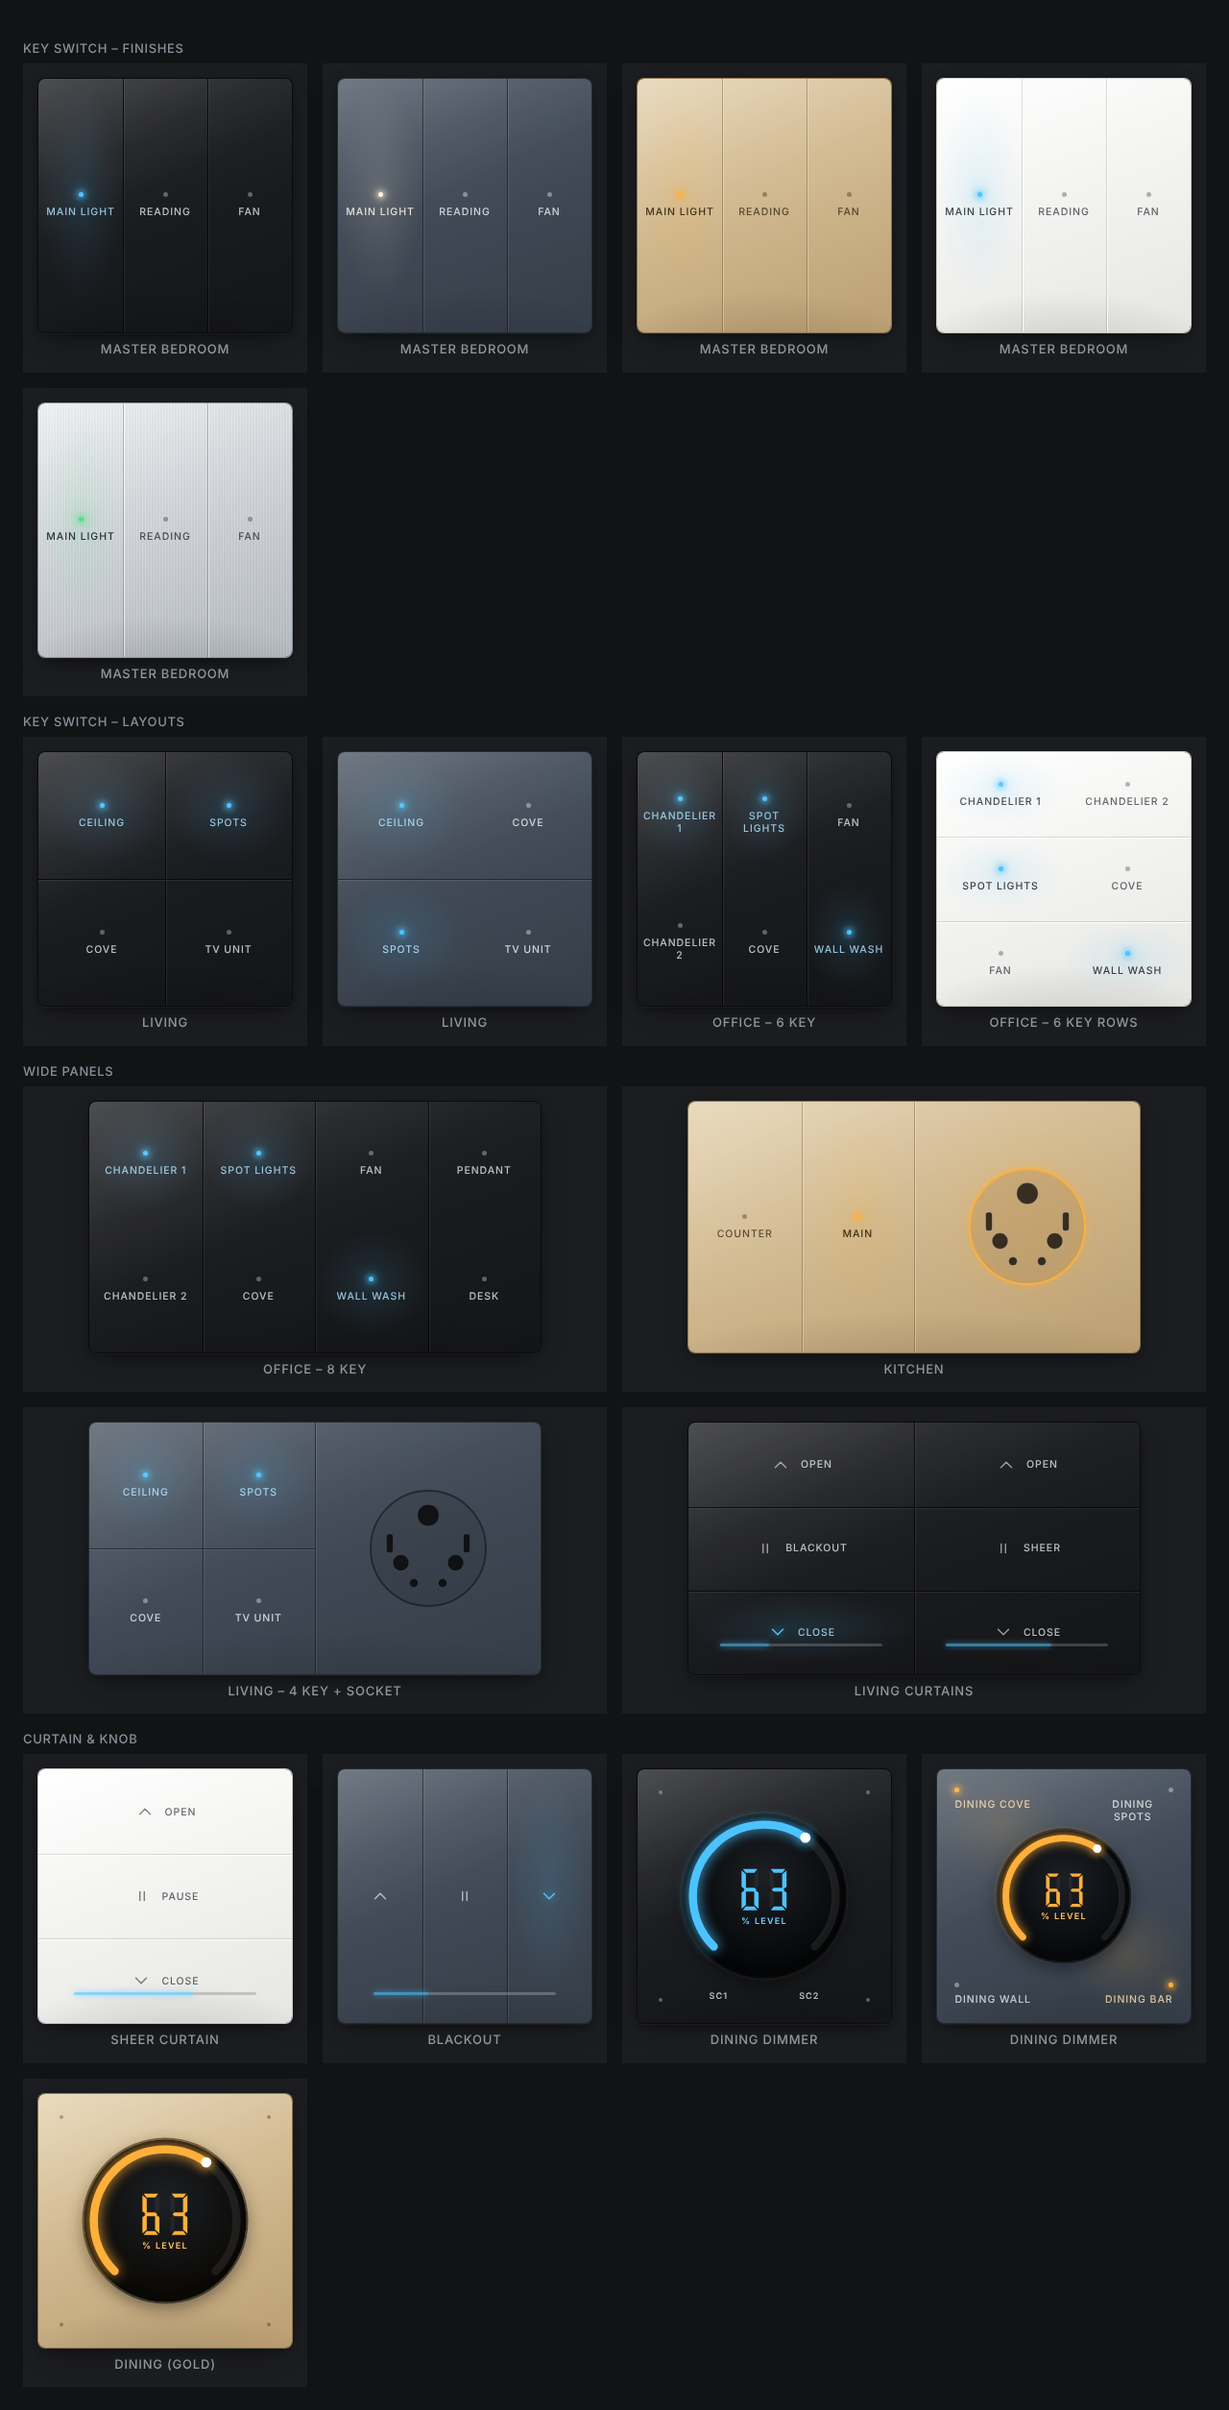
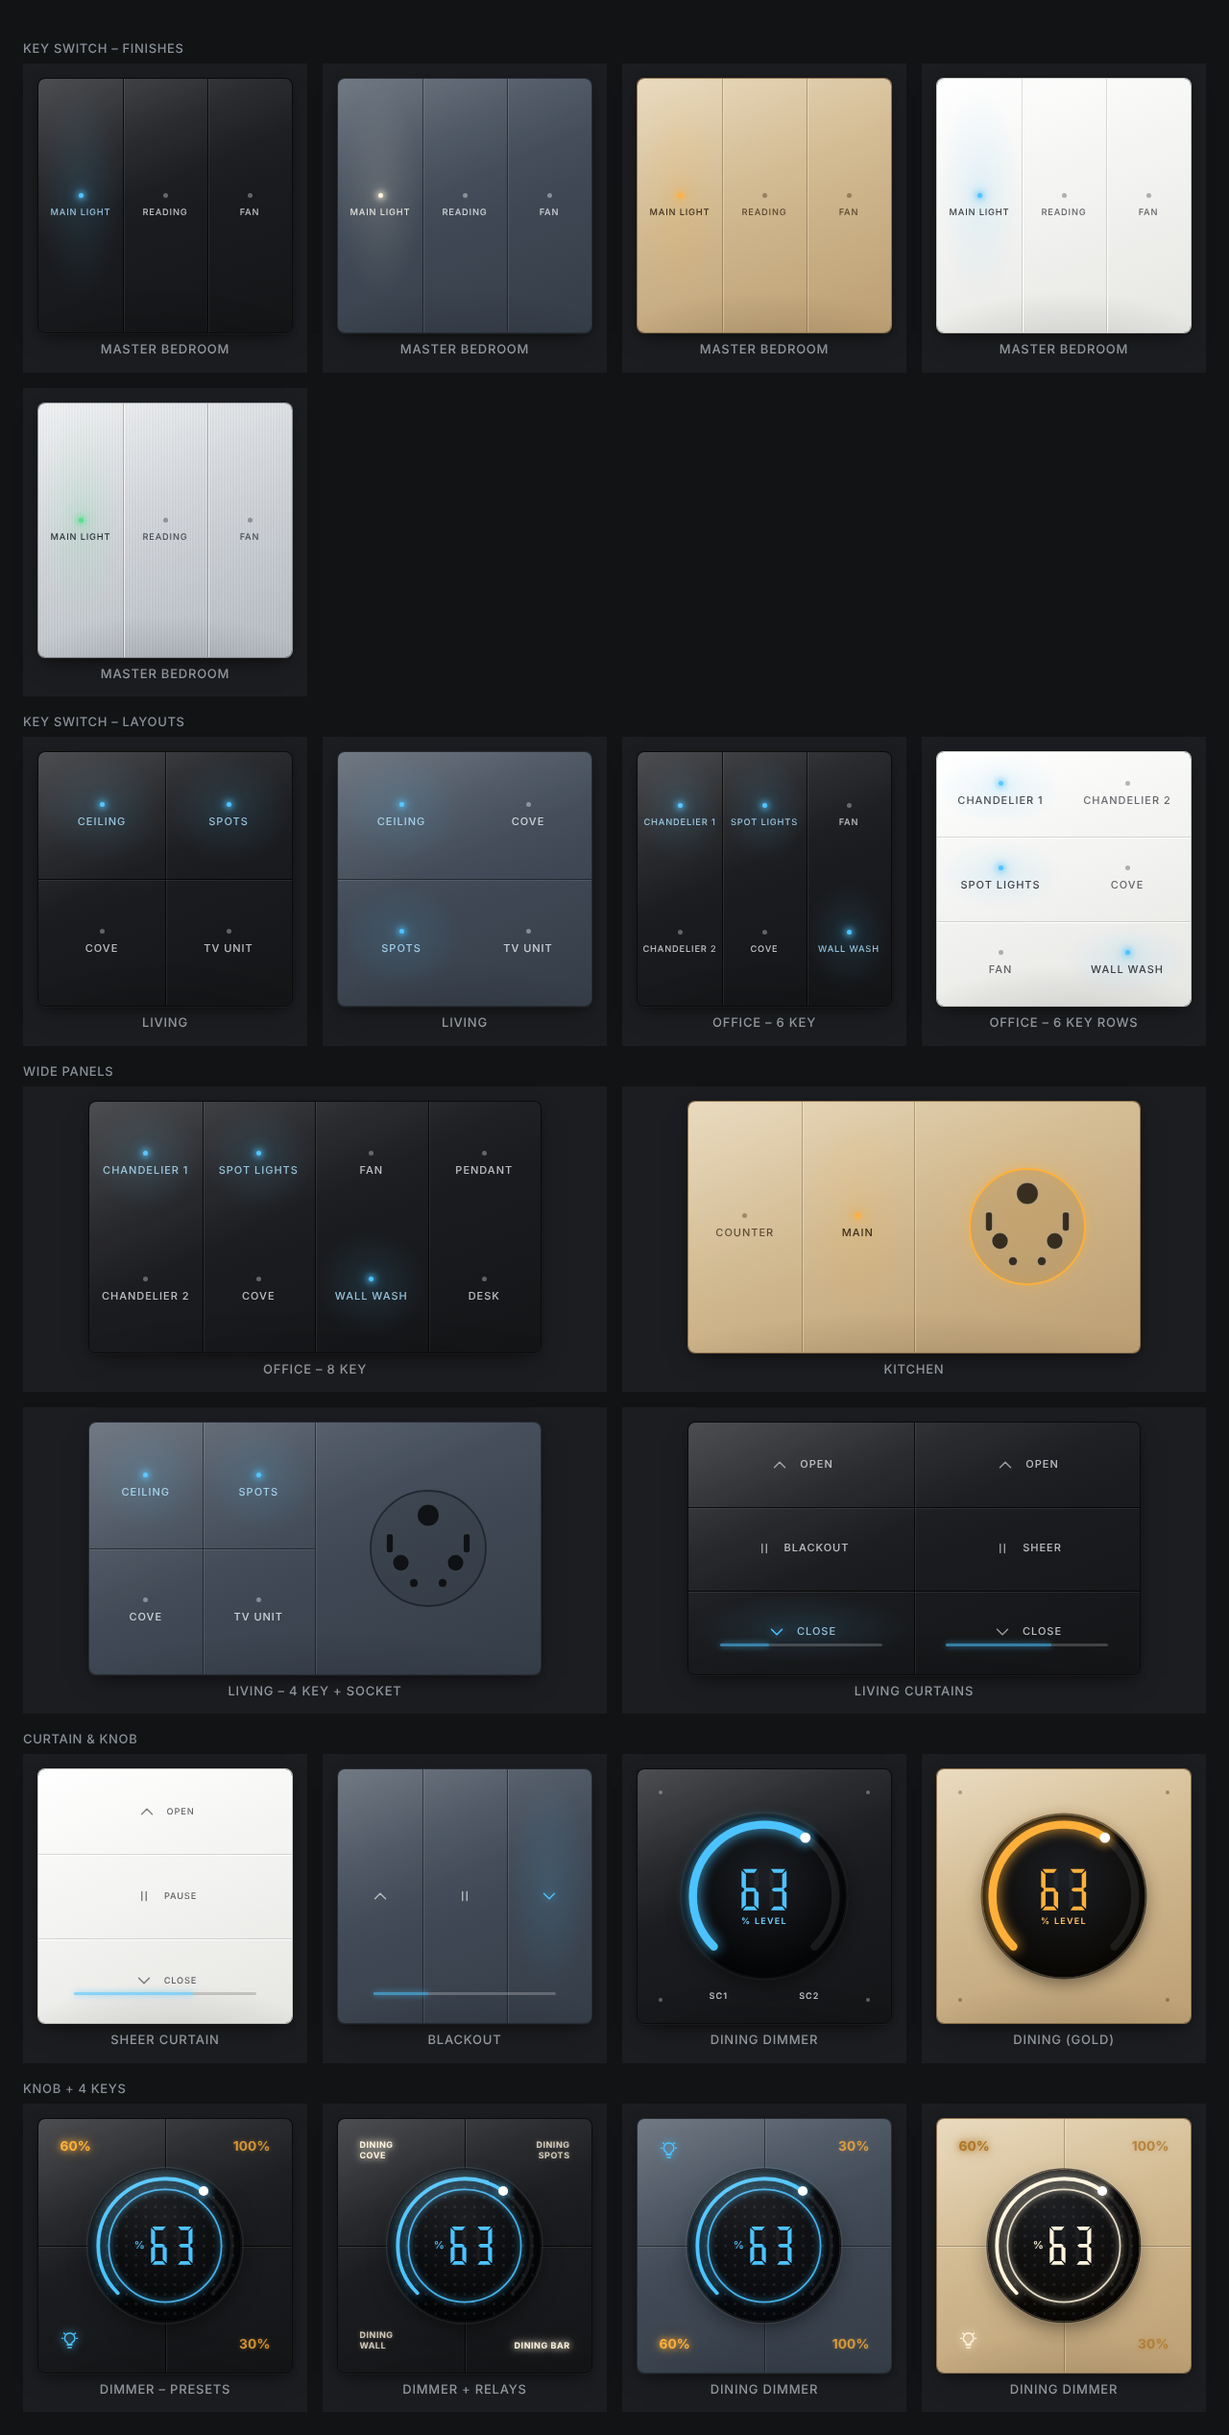
Knob + 4 keys card like the real dimmer panel: dotted glass display, on/off and level keys, or relays and scenes

diff --git a/custom_components/hawaii_local/frontend/hawaii-local-cards.js b/custom_components/hawaii_local/frontend/hawaii-local-cards.js
@@ -15,7 +15,7 @@
  * Common options: entity (any one entity of the switch), entities (pick keys
  * yourself), exclude, names, finish, indicator, show_names, name.
  */
-const VERSION = "0.3.1";
+const VERSION = "0.3.2";
 
 /* ------------------------------------------------------------------ looks */
 
@@ -228,6 +228,7 @@ const ICONS = {
   close: '<path d="M6 9l6 6 6-6" />',
   pause: '<path d="M9.5 7v10M14.5 7v10" />',
   power: '<path d="M12 4v7" /><path d="M7.2 7.2a7 7 0 1 0 9.6 0" />',
+  bulb: '<path d="M9.2 17.5h5.6M10 20.5h4" /><path d="M12 3.5a5.8 5.8 0 0 0-3.4 10.5c.6.5 1 1.1 1 1.9v.6h4.8V16c0-.8.4-1.4 1-1.9A5.8 5.8 0 0 0 12 3.5z" /><path d="M2.8 9.5h1.4M19.8 9.5h1.4M5.2 3.4l1 1M18.8 3.4l-1 1" />',
 };
 const icon = (name) =>
   `<svg class="ico" viewBox="0 0 24 24" fill="none" stroke="currentColor" stroke-width="1.6" stroke-linecap="round" stroke-linejoin="round">${ICONS[name]}</svg>`;
@@ -296,6 +297,28 @@ ha-card.bare { background:none; box-shadow:none; border:none; padding:6px 0; }
 .knob .unit { font: 600 9px/1 var(--ha-font-family-body, system-ui); letter-spacing:.14em; color: color-mix(in srgb, var(--hl-ind) 80%, #fff); text-transform:uppercase; }
 .knob.off .unit { color: rgba(255,255,255,.35); }
 .knob .center { position:absolute; inset:30%; border-radius:50%; cursor:pointer; }
+.knob.glass { background:
+    radial-gradient(circle, rgba(255,255,255,.085) 0 1.1px, transparent 1.7px) 50% 50% / 6.4% 6.4%,
+    radial-gradient(circle at 50% 32%, #16181c 0%, var(--hl-lcd) 72%);
+  box-shadow: 0 0 0 1.5px rgba(0,0,0,.65), 0 0 0 3px rgba(255,255,255,.07), inset 0 4px 16px rgba(0,0,0,.9), 0 10px 26px -6px rgba(0,0,0,.6); }
+.knob.glass::after { content:""; position:absolute; inset:0; border-radius:50%; pointer-events:none;
+  background: linear-gradient(160deg, rgba(255,255,255,.18) 0%, rgba(255,255,255,.03) 30%, transparent 48%); }
+.knob.glass .track { stroke-width:2.4; stroke:rgba(255,255,255,.07); }
+.knob.glass .arc { stroke-width:2.4; }
+.knob.glass .halo { fill:none; stroke:var(--hl-ind); stroke-width:1.1; opacity:.9; filter: drop-shadow(0 0 2px var(--hl-ind)); }
+.knob.glass.off .halo { opacity:.25; filter:none; }
+.knob.glass .readout { flex-direction:row; gap:4%; inset:26%; }
+.knob.glass .seg { width:66%; }
+.knob.glass .pct { font: 600 11px/1 var(--ha-font-family-body, system-ui); color:var(--hl-ind); align-self:center; opacity:.95; }
+.knob.glass.off .pct { color:rgba(255,255,255,.35); }
+.ck { position:absolute; width:50%; height:50%; box-sizing:border-box; padding:8.5%; display:flex; flex-direction:row; z-index:3; }
+.ck .cklabel { font: 700 clamp(10px, 5.2cqw, 17px)/1 var(--ha-font-family-body, system-ui); letter-spacing:.01em; white-space:nowrap;
+  color: color-mix(in srgb, var(--hl-label) 78%, transparent); text-shadow: 0 0 4px color-mix(in srgb, var(--hl-label) 35%, transparent); transition: all .25s ease; }
+.ck .cklabel.name { font-size: clamp(8px, 3.4cqw, 12px); letter-spacing:.06em; text-transform:uppercase; white-space:normal; max-width:70%; line-height:1.2; }
+.ck.on .cklabel { color: var(--hl-label); text-shadow: 0 0 6px var(--hl-label), 0 0 14px color-mix(in srgb, var(--hl-label) 60%, transparent); }
+.ck .ico { width:clamp(18px, 8cqw, 28px); height:auto; color: color-mix(in srgb, var(--hl-ind) 70%, transparent); }
+.ck.on .ico { color: var(--hl-ind); filter: drop-shadow(0 0 5px var(--hl-ind)); }
+.ck.on { background:none; }
 .scenes { position:absolute; left:0; right:0; bottom:7%; display:flex; justify-content:center; gap:22%; z-index:5; }
 .scene { font: 600 9px/1 var(--ha-font-family-body, system-ui); letter-spacing:.12em; color:var(--hl-text); padding:6px 8px; cursor:pointer; border-radius:6px; text-transform:uppercase; }
 .scene.on { color:var(--hl-ind); text-shadow:0 0 6px var(--hl-ind); }
@@ -351,7 +374,9 @@ class HawaiiBaseCard extends HTMLElement {
     const f = FINISHES[this._config.finish] || FINISHES.black;
     const ind = (INDICATORS[this._config.indicator] || {}).color || this._config.indicator || INDICATORS.blue.color;
     const onText = f.light ? f.text.replace(/[\d.]+\)$/, "1)") : `color-mix(in srgb, ${f.text} 65%, ${ind})`;
-    return `--hl-on-text:${onText};--hl-plate:${f.plate};--hl-rim:${f.rim};--hl-line:${f.line};--hl-line-hi:${f.lineHi};--hl-text:${f.text};--hl-dot:${f.dot};--hl-engrave:${f.engrave};--hl-lcd:${f.lcd};--hl-ind:${ind};${extra}`;
+    const baseLabel = (INDICATORS[this._config.label_color] || {}).color || this._config.label_color || INDICATORS.amber.color;
+    const label = f.light ? `color-mix(in srgb, ${baseLabel} 62%, #2a1600)` : baseLabel; // stays readable on light plates
+    return `--hl-label:${label};--hl-on-text:${onText};--hl-plate:${f.plate};--hl-rim:${f.rim};--hl-line:${f.line};--hl-line-hi:${f.lineHi};--hl-text:${f.text};--hl-dot:${f.dot};--hl-engrave:${f.engrave};--hl-lcd:${f.lcd};--hl-ind:${ind};${extra}`;
   }
 
   _frame(inner, module = 2, ratio = null, cols = 3) {
@@ -427,6 +452,7 @@ class HawaiiBaseCard extends HTMLElement {
     this._haptic();
     const { act, entity } = el.dataset;
     if (act === "toggle") toggleCall(this._hass, entity);
+    else if (act === "preset") this._setLevel(entity, Number(el.dataset.pct));
     else if (act === "cover") this._hass.callService("cover", el.dataset.service, { entity_id: entity });
   }
 
@@ -767,7 +793,7 @@ class HawaiiKnobDimmerCard extends HawaiiBaseCard {
     return b == null ? 100 : Math.max(1, Math.round((b / 255) * 100));
   }
 
-  _knobHtml(size = "64%") {
+  _knobHtml(size = "64%", glass = false) {
     const id = this._light();
     const st = this._hass.states[id];
     const on = isOn(st);
@@ -777,13 +803,16 @@ class HawaiiKnobDimmerCard extends HawaiiBaseCard {
     const thumbA = ((ARC_START + (ARC_SWEEP * pct) / 100) * Math.PI) / 180;
     const ind = (INDICATORS[this._config.indicator] || {}).color || INDICATORS.blue.color;
     const digits = on || this._preview != null ? String(pct).padStart(2, " ") : "--";
-    return `<div class="knob ${on || this._preview != null ? "" : "off"} ${unavailable(st) ? "off-line" : ""}" style="--hl-knob:${size}" data-knob="${esc(id)}">
-      <svg class="ring" viewBox="0 0 100 100">
+    const readout = glass
+      ? `<div class="readout"><span class="pct">%</span>${sevenSegment(digits, on ? ind : "rgba(255,255,255,.55)", "rgba(255,255,255,.045)")}</div>`
+      : `<div class="readout">${sevenSegment(digits, on ? ind : "rgba(255,255,255,.55)", "rgba(255,255,255,.05)")}<span class="unit">${domainOf(id || "light.x") === "cover" ? "% open" : "% level"}</span></div>`;
+    return `<div class="knob ${glass ? "glass" : ""} ${on || this._preview != null ? "" : "off"} ${unavailable(st) ? "off-line" : ""}" style="--hl-knob:${size}" data-knob="${esc(id)}" data-glass="${glass ? 1 : ""}">
+      <svg class="ring" viewBox="0 0 100 100">${glass ? '<circle class="halo" cx="50" cy="50" r="37"/>' : ""}
         <path class="track" d="${arcPath(50, 50, r)}"/>
         <path class="arc" d="${arcPath(50, 50, r)}" stroke-dasharray="${len}" stroke-dashoffset="${len * (1 - pct / 100)}"/>
         <circle class="thumb" cx="${(50 + r * Math.cos(thumbA)).toFixed(2)}" cy="${(50 + r * Math.sin(thumbA)).toFixed(2)}" r="3.2"/>
       </svg>
-      <div class="readout">${sevenSegment(digits, on ? ind : "rgba(255,255,255,.55)", "rgba(255,255,255,.05)")}<span class="unit">${domainOf(id || "light.x") === "cover" ? "% open" : "% level"}</span></div>
+      ${readout}
       <div class="center" role="button" tabindex="0" aria-label="Toggle ${esc(keyName(this._hass, this._config, id))}" data-act="toggle" data-entity="${esc(id)}"></div>
     </div>`;
   }
@@ -873,7 +902,7 @@ class HawaiiKnobDimmerCard extends HawaiiBaseCard {
     const knob = this.shadowRoot.querySelector("[data-knob]");
     if (!knob) return;
     const tmp = document.createElement("div");
-    tmp.innerHTML = this._knobHtml(knob.style.getPropertyValue("--hl-knob") || "64%");
+    tmp.innerHTML = this._knobHtml(knob.style.getPropertyValue("--hl-knob") || "64%", !!knob.dataset.glass);
     const fresh = tmp.firstElementChild;
     knob.querySelector("svg.ring").replaceWith(fresh.querySelector("svg.ring"));
     knob.querySelector(".readout").replaceWith(fresh.querySelector(".readout"));
@@ -915,33 +944,74 @@ class HawaiiKnobDimmerCard extends HawaiiBaseCard {
 
 /* ------------------------------------------------------------------ knob + keys */
 
+/** Corner order: top-left, top-right, bottom-left, bottom-right – as on the real dimmer panel. */
+const DEFAULT_PRESETS = ["60%", "100%", "power", "30%"];
+const CORNERS = [
+  "left:0;top:0;justify-content:flex-start;align-items:flex-start",
+  "right:0;top:0;justify-content:flex-end;align-items:flex-start",
+  "left:0;bottom:0;justify-content:flex-start;align-items:flex-end",
+  "right:0;bottom:0;justify-content:flex-end;align-items:flex-end",
+];
+
+/** "30%" / "30" -> 30, "power" / "on/off" -> "power", "light.x" -> entity. */
+export function parseCorner(item) {
+  const raw = String(item ?? "").trim();
+  if (!raw) return null;
+  if (raw.includes(".")) return { kind: "entity", id: raw };
+  if (/^(power|on\/off|onoff|toggle)$/i.test(raw)) return { kind: "power" };
+  const n = parseInt(raw, 10);
+  if (!Number.isNaN(n)) return { kind: "preset", pct: Math.max(1, Math.min(100, n)) };
+  return null;
+}
+
 class HawaiiKnobKeysCard extends HawaiiKnobDimmerCard {
-  _cornerKeys() {
-    let ids = this._config.keys;
-    if (!Array.isArray(ids) || !ids.length) {
-      const light = this._light();
-      ids = resolveKeys(this._hass, { ...this._config, entities: [] }).filter((id) => id !== light);
+  setConfig(config) {
+    super.setConfig({ label_color: "amber", ...config });
+  }
+
+  _cornerItems() {
+    const c = this._config;
+    let items;
+    if (c.corner_keys === "keys" || (Array.isArray(c.keys) && c.keys.length && c.corner_keys !== "presets")) {
+      let ids = Array.isArray(c.keys) && c.keys.length ? c.keys : null;
+      if (!ids) {
+        const light = this._light();
+        ids = resolveKeys(this._hass, { ...c, entities: [] }).filter((id) => id !== light);
+      }
+      items = ids.map((id) => ({ kind: "entity", id }));
+    } else {
+      const list = typeof c.presets === "string" ? c.presets.split(",") : Array.isArray(c.presets) ? c.presets : DEFAULT_PRESETS;
+      items = list.map(parseCorner);
     }
-    return ids.slice(0, 4);
+    return items.slice(0, 4);
   }
 
   _watched() {
-    return [this._light(), ...this._cornerKeys()].filter(Boolean);
+    return [this._light(), ...this._cornerItems().filter((k) => k && k.kind === "entity").map((k) => k.id)].filter(Boolean);
+  }
+
+  _cornerHtml(item, i) {
+    if (!item) return "";
+    const light = this._light();
+    const lst = this._hass.states[light];
+    const off = unavailable(lst) ? "off-line" : "";
+    if (item.kind === "power") {
+      return `<div class="key ck ${isOn(lst) ? "on" : ""} ${off}" role="button" tabindex="0" aria-label="On / off" data-act="toggle" data-entity="${esc(light)}" style="${CORNERS[i]}">${icon("bulb")}</div>`;
+    }
+    if (item.kind === "preset") {
+      const active = isOn(lst) && Math.abs(this._percent(lst) - item.pct) <= 3;
+      return `<div class="key ck ${active ? "on" : ""} ${off}" role="button" tabindex="0" aria-label="${item.pct}%" data-act="preset" data-pct="${item.pct}" data-entity="${esc(light)}" style="${CORNERS[i]}"><span class="cklabel">${item.pct}%</span></div>`;
+    }
+    const st = this._hass.states[item.id];
+    const name = keyName(this._hass, this._config, item.id);
+    return `<div class="key ck ${isOn(st) ? "on" : ""} ${unavailable(st) ? "off-line" : ""}" role="button" tabindex="0" aria-label="${esc(name)}" data-act="toggle" data-entity="${esc(item.id)}" style="${CORNERS[i]}"><span class="cklabel name" style="text-align:${i % 2 ? "right" : "left"}">${esc(name)}</span></div>`;
   }
 
   _render() {
     if (!this._light()) return this._empty("Pick a dimmable light.");
-    const pos = [
-      "left:0;top:0", "right:0;top:0", "left:0;bottom:0", "right:0;bottom:0",
-    ];
-    const keys = this._cornerKeys()
-      .map((id, i) =>
-        this._keyHtml(id, {
-          extra: `style="position:absolute;${pos[i]};width:50%;height:50%;justify-content:${i < 2 ? "flex-start" : "flex-end"};align-items:${i % 2 ? "flex-end" : "flex-start"};padding:7% 7%;box-sizing:border-box;gap:6px"`,
-        }),
-      )
-      .join("");
-    this._frame(`<div class="grid" style="display:block">${keys}</div>` + this._knobHtml("52%"), 2);
+    const corners = this._cornerItems().map((k, i) => this._cornerHtml(k, i)).join("");
+    const cross = `<span class="vline" style="left:50%"></span><span class="hline" style="top:50%"></span>`;
+    this._frame(cross + corners + this._knobHtml("60%", true), 2);
     this._bindKnob();
   }
 
@@ -949,12 +1019,46 @@ class HawaiiKnobKeysCard extends HawaiiKnobDimmerCard {
     return {
       schema: [
         { name: "entity", required: true, selector: { entity: { domain: ["light", "fan", "cover"] } } },
+        {
+          name: "corner_keys",
+          selector: {
+            select: {
+              mode: "dropdown",
+              options: [
+                { value: "presets", label: "Dimmer keys (on/off and levels)" },
+                { value: "keys", label: "Relays or scenes" },
+              ],
+            },
+          },
+        },
+        { name: "presets", selector: { text: {} } },
         { name: "keys", selector: { entity: { multiple: true, domain: KEY_DOMAINS } } },
-        ...LOOK_SCHEMA,
+        {
+          type: "grid",
+          name: "",
+          schema: [
+            { name: "finish", selector: { select: { mode: "dropdown", options: FINISH_OPTIONS } } },
+            { name: "indicator", selector: { select: { mode: "dropdown", options: INDICATOR_OPTIONS } } },
+          ],
+        },
+        { name: "label_color", selector: { select: { mode: "dropdown", options: INDICATOR_OPTIONS } } },
+        { name: "background", selector: { boolean: {} } },
+        { name: "name", selector: { text: {} } },
       ],
       computeLabel: (s) =>
-        s.name === "entity" ? "Dimmable light (or fan / curtain)" : s.name === "keys" ? "Corner keys (optional – up to 4; empty = the switch's other keys)" : computeLabel(s),
+        ({
+          entity: "Dimmable light (or fan / curtain)",
+          corner_keys: "Corner keys",
+          presets: "Dimmer keys, top-left → bottom-right (e.g. 60%, 100%, power, 30%)",
+          keys: "Relay / scene keys (up to 4; empty = the switch's other keys)",
+          indicator: "Display and on/off colour",
+          label_color: "Key label colour",
+        })[s.name] ?? computeLabel(s),
     };
+  }
+
+  static getStubConfig(hass) {
+    return { entity: pickEntity(hass, ["light"]) || "", corner_keys: "presets", finish: "black", indicator: "blue", label_color: "amber" };
   }
 }
 
@@ -972,7 +1076,7 @@ const CARDS = [
   ["hawaii-key-socket-card", HawaiiKeySocketCard, "Hawaii Keys + Socket", "4 module panel: keys on the left, universal socket on the right."],
   ["hawaii-curtain-switch-card", HawaiiCurtainSwitchCard, "Hawaii Curtain Switch", "Open / pause / close keys with position bar; one or two curtains."],
   ["hawaii-knob-dimmer-card", HawaiiKnobDimmerCard, "Hawaii Knob Dimmer", "Rotary dimmer with a round level display – drag the ring, tap the centre."],
-  ["hawaii-knob-keys-card", HawaiiKnobKeysCard, "Hawaii Knob + Keys", "Rotary dimmer ringed by four keys."],
+  ["hawaii-knob-keys-card", HawaiiKnobKeysCard, "Hawaii Knob + 4 Keys", "Round dimmer display with four corner keys: on/off, 30%, 60%, 100% – or relays and scenes."],
 ];
 
 for (const [tag, cls, name, description] of CARDS) {

diff --git a/README.md b/README.md
@@ -45,7 +45,7 @@ Hawaii Local adds switch cards that look like Hawaii Automations wall switches. 
 | `custom:hawaii-key-socket-card` | Keys + universal socket (4 module); the socket can be a smart socket |
 | `custom:hawaii-curtain-switch-card` | Open / pause / close with position bar; one or two curtains |
 | `custom:hawaii-knob-dimmer-card` | Rotary dimmer with round level display – drag the ring, scroll, or tap the centre; optional Sc1 / Sc2 scene keys |
-| `custom:hawaii-knob-keys-card` | Rotary dimmer ringed by four keys |
+| `custom:hawaii-knob-keys-card` | Round dimmer display with four corner keys: on/off, 30 %, 60 %, 100 % (set your own with `presets: 60%, 100%, power, 30%`), or relays / scenes with `corner_keys: keys` |
 
 Finishes: black glass, aluminium grey, champagne gold, white glass, brushed silver. Indicator lights: ice blue, warm white, amber, green.
 
